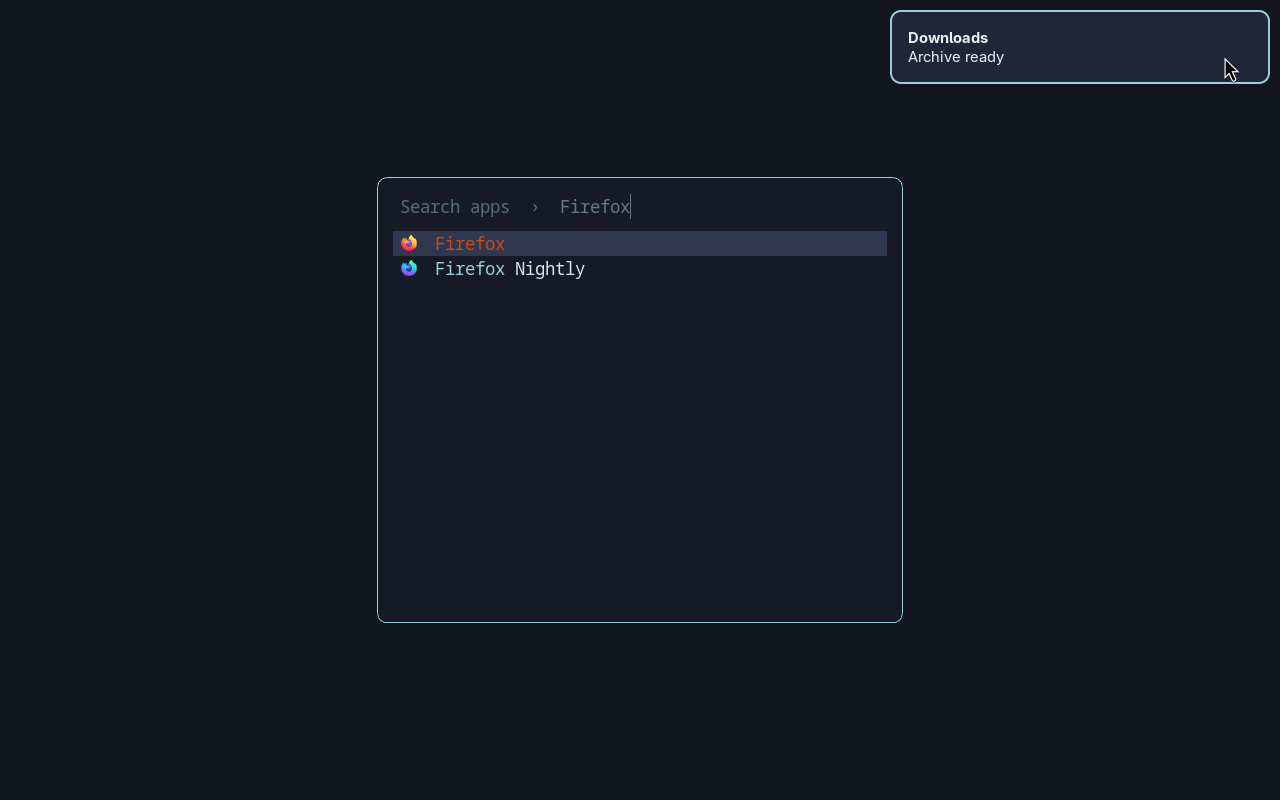
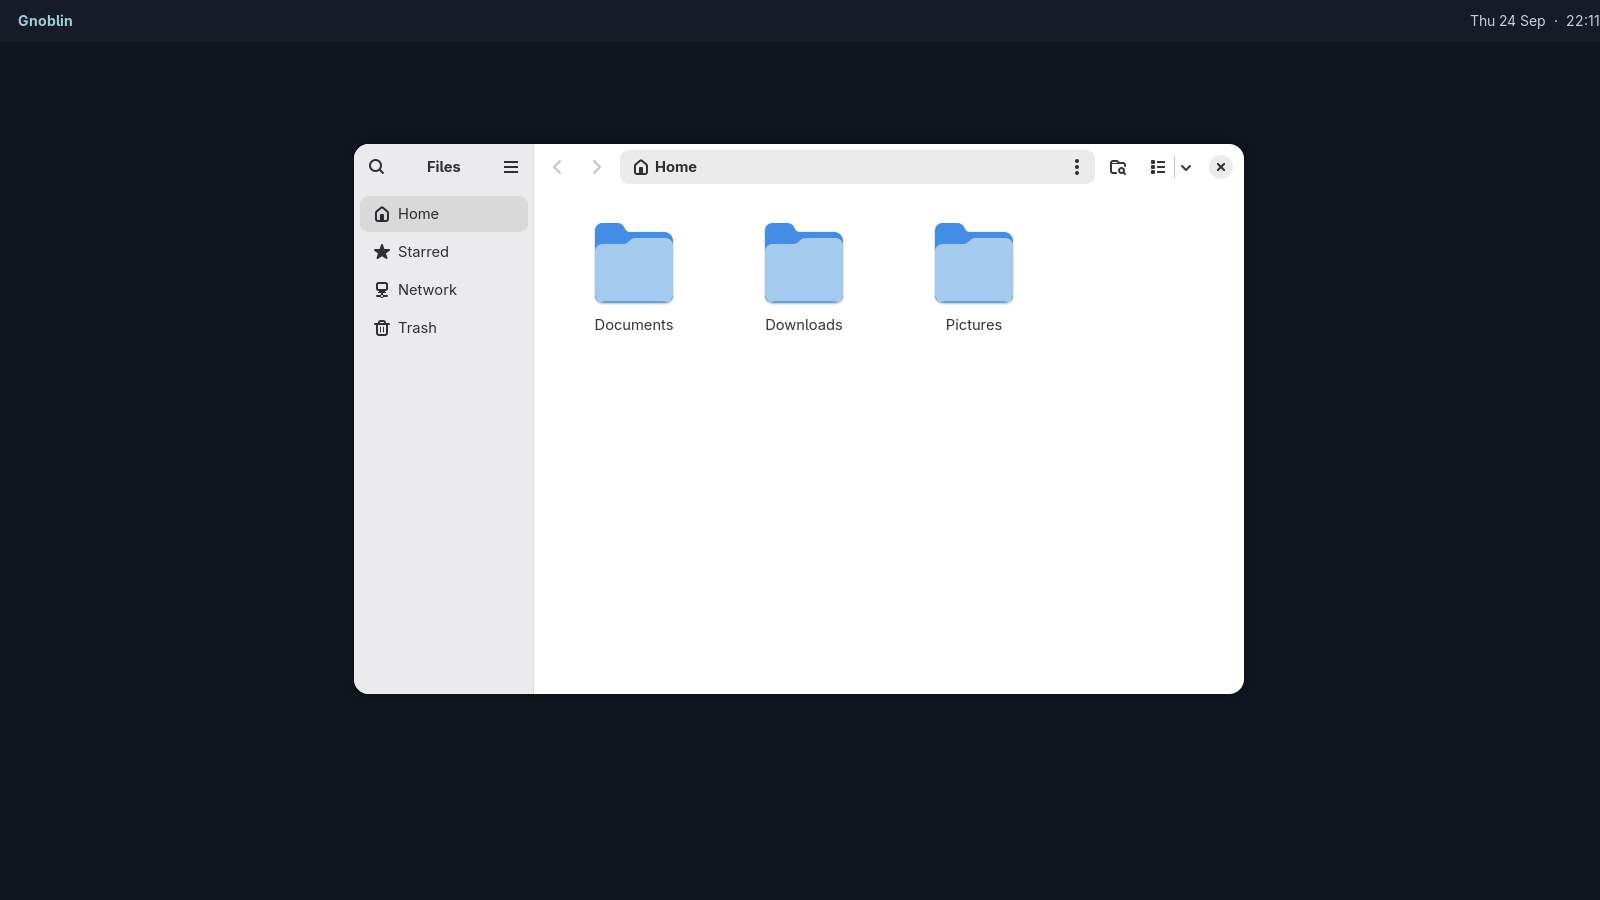
docs: show Waybar in clean desktop capture

diff --git a/docs/devkit.md b/docs/devkit.md
@@ -18,8 +18,8 @@ to the nested compositor.
 
 ![A calculator window in a Gnoblin devkit desktop with a separate shell](images/gnoblin-example-desktop.png)
 
-*This capture shows Gnoblin managing the application window while Bingux,
-which is a separate project, provides the visible desktop shell.*
+_This capture shows Gnoblin managing the application window while Bingux,
+which is a separate project, provides the visible desktop shell._
 
 To choose a terminal explicitly:
 
@@ -82,14 +82,14 @@ fully separate from host services. Check the image before publishing it.
 The checked-in documentation scenes can be recaptured with:
 
 ```sh
-scripts/capture-doc-examples.sh [desktop|console|all]
+scripts/capture-doc-examples.sh desktop
 ```
 
-The script starts Gnoblin in a disposable profile, configures Waybar, Mako,
-Fuzzel and Foot for the desktop scene, and writes PNGs to `docs/images/`.
-Pass a second argument to choose another output directory. It needs a visible
-Wayland session, `grim`, the desktop applications used by the selected scene,
-and an installed Adwaita Hyprcursor theme (or a built theme in `build/`).
+The script builds a fresh profile, starts Waybar and Files, then writes
+`docs/images/gnoblin-build-a-desktop.png`. Pass a second argument for another
+output directory. It needs a visible Wayland session, a current Gnoblin build
+in `./install`, `grim`, the desktop apps configured by the script, and an
+installed Adwaita Hyprcursor theme (or a built theme in `build/`).
 
 The [private test harness](testing.md) is for automated checks.
 A devkit run does not verify the installed login session.

diff --git a/docs/build-a-desktop.md b/docs/build-a-desktop.md
@@ -45,14 +45,9 @@ gnoblin.configure {
 }
 ```
 
-![The Fuzzel launcher running in Gnoblin](images/gnoblin-build-a-desktop.png)
+![Waybar and Files in a fresh Gnoblin session](images/gnoblin-build-a-desktop.png)
 
-*Fuzzel searching the installed applications. The pointer uses the configured
-Adwaita Hyprcursor theme.*
-
-![A Mako notification in Gnoblin](images/gnoblin-mako-notification.png)
-
-*Mako displaying a notification over the same desktop.*
+_Waybar above the stock Files app in a disposable Gnoblin profile._
 
 The cursor setting requires the Adwaita Hyprcursor theme; install it using the
 [cursor guide](/guides/cursors).

diff --git a/docs/developer-console.md b/docs/developer-console.md
@@ -3,11 +3,6 @@
 Press **Alt+F2** to open the console in an unlocked Gnoblin session.
 Choose JavaScript or Lua using the tabs above the prompt.
 
-![Gnoblin's developer console open in JavaScript mode](images/gnoblin-developer-console.png)
-
-To capture it from a disposable devkit profile, run
-`scripts/capture-doc-examples.sh console`.
-
 Disable the Alt+F2 binding in `~/.config/gnoblin/init.lua` with:
 
 ```lua
